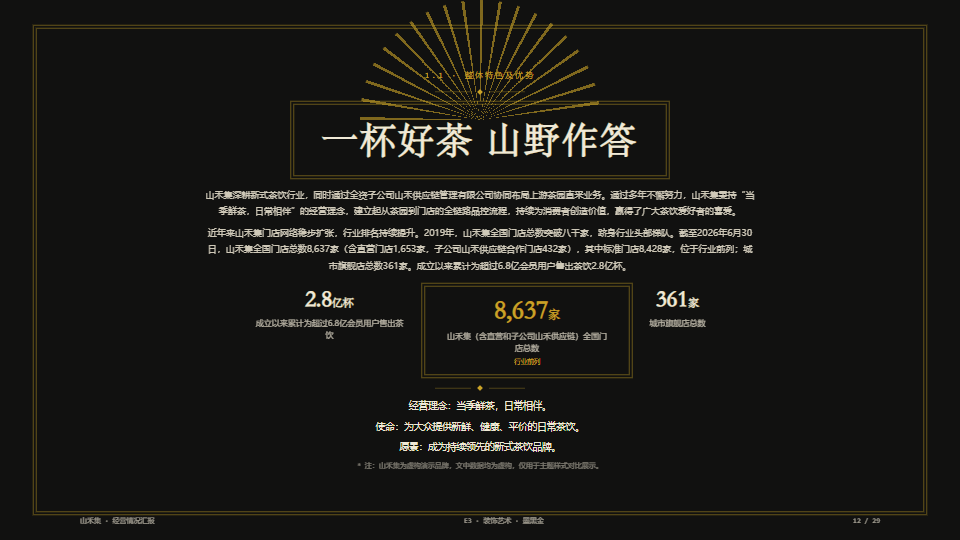
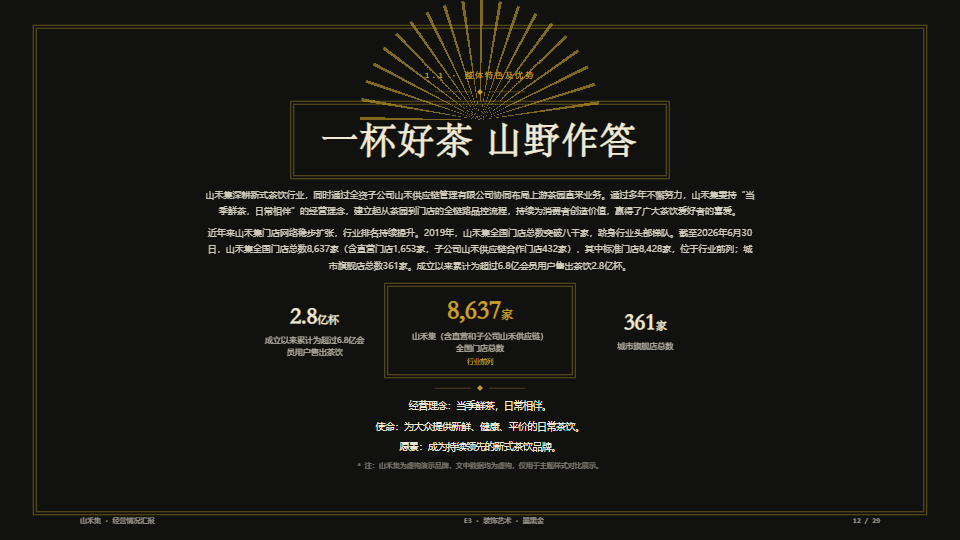
feat(batch-3): E3 invariant 补强 + README 更新 + handover v3
- E3 invariant 补入 flex:1 等宽约束（修复中轴金框未严格居中）
- README（中英）追加 batch-3 G10 契约验收样张（G4/G5/E2/E3）
- 新增 assets/theme-sampler/content.md 内容规范
- 新增 assets/theme-sampler/v3-{e2,e3,g4,g5}.png 验收截图
- 新增 docs/progress/HANDOVER-v3.md（下一批入口文档）
  - 17 条 100% 防范清单（v2 的 12 + batch-3 的 5）
  - theme-sampler 制作 SOP（第一步就含完整 PPTX 页面）
  - 批次 4 预览：C2/C4/D1/D3

diff --git a/docs/progress/phase6-batch3/theme-sampler-4.html b/docs/progress/phase6-batch3/theme-sampler-4.html
@@ -598,20 +598,20 @@ html,body{background:#222;height:auto}
           <p data-editable style="margin-top:10px;font-size:18px;line-height:1.85;opacity:.85">近年来山禾集门店网络稳步扩张，行业排名持续提升。2019年，山禾集全国门店总数突破八千家，跻身行业头部梯队。截至2026年6月30日，山禾集全国门店总数8,637家（含直营门店1,653家，子公司山禾供应链合作门店432家），其中标准门店8,428家，位于行业前列；城市旗舰店总数361家。成立以来累计为超过6.8亿会员用户售出茶饮2.8亿杯。</p>
         </div>
 
-        <!-- G10 data: 对称双栏镜像模块，主数字在中轴金框内 -->
-        <div class="reveal" style="--d:.28s;margin-top:24px;display:flex;justify-content:center;align-items:stretch">
-          <div style="padding:0 40px;text-align:center">
+        <!-- G10 data: 对称双栏镜像模块，主数字在中轴金框内；左右栏 flex:1 等宽确保中轴严格居中 -->
+        <div class="reveal" style="--d:.28s;margin-top:24px;display:flex;justify-content:center;align-items:stretch;max-width:1200px">
+          <div style="flex:1;display:flex;flex-direction:column;justify-content:center;padding:0 40px;text-align:center">
             <p data-editable style="font-family:var(--font-display);font-size:46px;font-weight:600;line-height:1.15">2.8<span style="font-size:22px">亿杯</span></p>
-            <p data-editable style="margin-top:8px;font-size:16px;line-height:1.55;opacity:.75;max-width:300px">成立以来累计为超过6.8亿会员用户售出茶饮</p>
+            <p data-editable style="margin-top:8px;font-size:16px;line-height:1.55;opacity:.75">成立以来累计为超过6.8亿会员用户售出茶饮</p>
           </div>
-          <div class="mt-deco-frame" style="padding:18px 44px;text-align:center">
+          <div class="mt-deco-frame" style="flex:0 0 auto;padding:18px 44px;text-align:center">
             <p data-editable style="font-family:var(--font-display);font-size:52px;font-weight:600;line-height:1.15;color:var(--accent)">8,637<span style="font-size:24px">家</span></p>
-            <p data-editable style="margin-top:8px;font-size:16px;line-height:1.55;opacity:.75;max-width:320px">山禾集（含直营和子公司山禾供应链）全国门店总数</p>
+            <p data-editable style="margin-top:8px;font-size:16px;line-height:1.55;opacity:.75;max-width:280px">山禾集（含直营和子公司山禾供应链）全国门店总数</p>
             <p data-editable style="margin-top:6px;font-family:var(--font-mono);font-size:13px;color:var(--accent)">行业前列</p>
           </div>
-          <div style="padding:0 40px;text-align:center">
+          <div style="flex:1;display:flex;flex-direction:column;justify-content:center;padding:0 40px;text-align:center">
             <p data-editable style="font-family:var(--font-display);font-size:46px;font-weight:600;line-height:1.15">361<span style="font-size:22px">家</span></p>
-            <p data-editable style="margin-top:8px;font-size:16px;line-height:1.55;opacity:.75;max-width:300px">城市旗舰店总数</p>
+            <p data-editable style="margin-top:8px;font-size:16px;line-height:1.55;opacity:.75">城市旗舰店总数</p>
           </div>
         </div>
 

diff --git a/docs/progress/phase6-batch3/build-sampler-v5.js b/docs/progress/phase6-batch3/build-sampler-v5.js
@@ -266,20 +266,20 @@ const slideE3 = `  <div class="slide-slot">
           <p data-editable style="margin-top:10px;font-size:18px;line-height:1.85;opacity:.85">${C.body2}</p>
         </div>
 
-        <!-- G10 data: 对称双栏镜像模块，主数字在中轴金框内 -->
-        <div class="reveal" style="--d:.28s;margin-top:24px;display:flex;justify-content:center;align-items:stretch">
-          <div style="padding:0 40px;text-align:center">
+        <!-- G10 data: 对称双栏镜像模块，主数字在中轴金框内；左右栏 flex:1 等宽确保中轴严格居中 -->
+        <div class="reveal" style="--d:.28s;margin-top:24px;display:flex;justify-content:center;align-items:stretch;max-width:1200px">
+          <div style="flex:1;display:flex;flex-direction:column;justify-content:center;padding:0 40px;text-align:center">
             <p data-editable style="font-family:var(--font-display);font-size:46px;font-weight:600;line-height:1.15">${C.kpi2Num}<span style="font-size:22px">${C.kpi2Unit}</span></p>
-            <p data-editable style="margin-top:8px;font-size:16px;line-height:1.55;opacity:.75;max-width:300px">${C.kpi2Label}</p>
+            <p data-editable style="margin-top:8px;font-size:16px;line-height:1.55;opacity:.75">${C.kpi2Label}</p>
           </div>
-          <div class="mt-deco-frame" style="padding:18px 44px;text-align:center">
+          <div class="mt-deco-frame" style="flex:0 0 auto;padding:18px 44px;text-align:center">
             <p data-editable style="font-family:var(--font-display);font-size:52px;font-weight:600;line-height:1.15;color:var(--accent)">${C.kpi1Num}<span style="font-size:24px">${C.kpi1Unit}</span></p>
-            <p data-editable style="margin-top:8px;font-size:16px;line-height:1.55;opacity:.75;max-width:320px">${C.kpi1Label}</p>
+            <p data-editable style="margin-top:8px;font-size:16px;line-height:1.55;opacity:.75;max-width:280px">${C.kpi1Label}</p>
             <p data-editable style="margin-top:6px;font-family:var(--font-mono);font-size:13px;color:var(--accent)">${C.kpi1Tag}</p>
           </div>
-          <div style="padding:0 40px;text-align:center">
+          <div style="flex:1;display:flex;flex-direction:column;justify-content:center;padding:0 40px;text-align:center">
             <p data-editable style="font-family:var(--font-display);font-size:46px;font-weight:600;line-height:1.15">${C.kpi3Num}<span style="font-size:22px">${C.kpi3Unit}</span></p>
-            <p data-editable style="margin-top:8px;font-size:16px;line-height:1.55;opacity:.75;max-width:300px">${C.kpi3Label}</p>
+            <p data-editable style="margin-top:8px;font-size:16px;line-height:1.55;opacity:.75">${C.kpi3Label}</p>
           </div>
         </div>
 

diff --git a/docs/progress/HANDOVER-v3.md b/docs/progress/HANDOVER-v3.md
@@ -1,0 +1,252 @@
+# SlideForge 主题「审美巅峰」优化 · Handover v3
+
+> 建立日期：2026-11-17（batch-3 验收后）
+> 用途：**新 session 的唯一入口文档**。读完本文即可继续优化剩余主题，无需重放历史对话。
+> 前版：`docs/progress/HANDOVER-v2.md`（v2，2026-11-17）—— 仍保留作参考，但本文件取代其作为入口。
+> 基线：本地 `main` 已包含 Phase 1–6 + 批次 1 v2 + 批次 3 的全部提交（未 push）。
+
+---
+
+## 0. 新 session 快速启动
+
+| 项 | 值 |
+|---|---|
+| 主题库总数 | **30 套**（六类设计轴：色法 7 / 线法 4 / 空间 5 / 质感 8 / 光线 4 / 字法 2） |
+| 已升级到「审美巅峰」+ G10 | **13 套**：B1 / C3 / E5 / H1 / E6 / G2 / E7 / F1 / C1 / **G4 / G5 / E2 / E3**（batch-3 新增） |
+| 待优化 | **17 套**，分 **5 批**（4 批 × 4 + 尾批 1） |
+| 下一批应做 | **批次 4：C2 暗夜植物园 / C4 纸与墨 / D1 奶油物语 / D3 手绘油彩** |
+| 铁律 | **每批只做 4 套 → 多类数据实测 → 出 A/B 与验收包 → 停下来等用户验收 → 通过后才进下一批** |
+| 不允许 | 未经用户验收就批量铺量；把「更新 README 示例」做成新增章节；为字号加后拦截门禁 |
+
+**开工前必读（按顺序）**
+1. 本文 §5（分批 SOP 与验收门槛）——决定怎么做。
+2. 本文 §4（batch-3 经验教训 + 100% 防范清单）——避免重蹈覆辙。
+3. `analysis/G10-主题DNA规范草案.md` —— G10 字段组的原始规范与「审美巅峰」验收口径。
+4. `skills/SlideForge/references/themes/<分类>/<id>/theme.md` —— 每套主题的 G0–G9/G10。
+5. `assets/theme-sampler/content.md` —— theme-sampler 的内容规范（山禾集业务汇报）。
+
+---
+
+## 1. 任务关键描述
+
+### 1.1 优化目标
+
+30 套主题从「可替换参数集」升级为「决定信息如何进入空间的程序」——每套主题获得构图主权，使同一段内容在不同主题下呈现结构级差异（非换配色），灰度去色后仍可辨识。
+
+### 1.2 G10 composition_program 管线
+
+G10 是让主题获得构图主权的字段组，含 9 个子字段：
+- `doctrine`（世界观一句话）
+- `page_composition`（骨架 skeleton + 网格 grid + 平衡 balance + 留白 whitespace_ratio + 信息流 flow）
+- `signature_operator`（信息编译规则——每条信息如何变成视觉元素）
+- `silhouette`（剪影特征）
+- `info_grammar`（每页类型构图契约：cover/toc/claim/analysis/data/closing 各一条）
+- `type_scale`（`--t-*` 令牌源，px@1920 画布基准）
+- `invariants`（每页硬约束列表）
+- `forbidden_defaults`（禁止的默认模板列表）
+- `dna_events`（每页型 DNA 强度）
+
+**管线接入**（batch-3 修复）：
+- `SKILL.md` Step 1 页计划表：标注 G10 `info_grammar` 页型（硬规则）
+- `SKILL.md` Step 2 冻结主题：逐字段读取 G10 作为构图契约（硬规则）
+- `SKILL.md` Step 4 逐页生成：重读 `signature_operator`/`info_grammar`/`invariants`/`forbidden_defaults`/`dna_events`（硬规则）
+- `index.md` Schema 表：L8 构图程序行（G10 composition_program）
+
+### 1.3 文档引用
+
+| 文档 | 用途 |
+|------|------|
+| `analysis/G10-主题DNA规范草案.md` | G10 字段组原始规范 + 「审美巅峰」验收口径 |
+| `skills/SlideForge/SKILL.md` | 生成管线（Step 1/2/4 含 G10 硬规则） |
+| `skills/SlideForge/references/themes/index.md` | 主题 Schema 表（L1–L8） |
+| `skills/SlideForge/references/themes/<分类>/<id>/theme.md` | 各主题 G0–G9 + G10 |
+| `skills/SlideForge/assets/skeleton.html` | 骨架 v7.6（1920×1080 px 基准） |
+| `skills/SlideForge/gallery/index.html` | README 画廊（29 主题 cover 样张） |
+| `assets/theme-sampler/content.md` | theme-sampler 内容规范（山禾集） |
+| `docs/progress/G10-pipeline-audit.md` | G10 管线缺口审计报告（batch-3） |
+| `docs/progress/HANDOVER-v2.md` | v2 handover（批次 1 经验教训） |
+| `docs/progress/HANDOVER-v3.md` | ← 本文件 |
+
+---
+
+## 2. 已完成 13 套主题明细
+
+### 2.1 批次 1 v2（9 套）
+
+| 主题 | `--t-display` | signature_operator 一句话 |
+|------|--------------|------------------------|
+| B1 瑞士国际主义 | 176 | 12 栏网格 + 标题跨栏语义断行 + KPI 重排为右侧纵向数据脊 |
+| C3 终端绿 | 104 | 内容编译成命令行 stdout + 描边终端窗口 + key:value 输出行 |
+| E5 构成主义 | 128 | −12° 力带劈开版面 + 标题反白装进带内 + 正文沿力线阶梯错排 |
+| H1 氤氲手卷 | 92 | 自右向左手卷展开 + 标题竖排居右 + 汉数题跋 + 朱印句读 |
+| E6 孟菲斯 | 112 | 几何色面碰撞拼贴 + palette 轮转 + 3px 墨粗描边 + 不对称平衡 |
+| G2 腮红荧光笔 | 128 | 单栏流式正文 + 荧光高亮带 + 便签浮在右侧标注 |
+| E7 浮世绘 | — | 浮世绘前景深墨块 + 天空留白 + 印章句读（需复核） |
+| F1 浮光玻璃 | 108 | 居中悬浮主玻璃 + 四角柔光斑 + 深底亮玻璃明度签名 |
+| C1 信号黑 | 120 | 黑场单焦点 + 信号橙色块（唯一焦点）+ 巨号页码背景层 + 明度档分区 |
+
+### 2.2 批次 3（4 套，本次新增）
+
+| 主题 | `--t-display` | signature_operator 一句话 | G10 claim 契约 |
+|------|--------------|------------------------|---------------|
+| G4 靛墨黄页 | 128 | 出血色面 + 靛蓝线框分区 + 太阳黄焦点面 + 余烬橙单点 | 裂屏对开（黄/靛对撞），主张句在黄面上反白，说明在靛面上 |
+| G5 三色旬刊 | 112 | 三色反转色面 + 明度阶梯 + 暗夜蓝底苔绿字焦点面 + 刊号签/三色带 | 裂屏对开（暗夜蓝/苔绿对撞），主张句在暗夜蓝底苔绿字上 |
+| E2 蓝图 | 104 | 双线图框 + 标注线 + 图框标题栏 + 制图网格全页铺 + mono key:value | 主张句在主图框内，标注线指向关键数据点，标题栏钉右下 |
+| E3 装饰艺术 | 120 | 中轴对称金线框阵列 + 双线金框 + 扇形放射 + 菱形分隔 + 金线翼卫 | 中轴金框装主张句 + 两侧金线翼卫 + 底部菱形引出说明 |
+
+### 2.3 G10 管线接入状态
+
+| 组件 | 状态 | 验证方法 |
+|------|------|---------|
+| SKILL.md Step 1（页计划标注 info_grammar） | ✅ 已接入 | `grep -c "info_grammar" SKILL.md` = 8 |
+| SKILL.md Step 2（读取 G10 作构图契约） | ✅ 已接入 | `grep -c "composition_program" SKILL.md` = 4 |
+| SKILL.md Step 4（逐页遵守 5 字段） | ✅ 已接入 | `grep -c "signature_operator\|invariants\|forbidden_defaults" SKILL.md` = 4+2+2 |
+| index.md L8 Schema 行 | ✅ 已接入 | `grep "L8" index.md` 有结果 |
+| 4 主题 G10 完整性 | ✅ 全有 | 4 主题各 `grep -c "composition_program" theme.md` = 1 |
+
+---
+
+## 3. batch-3 关键修复
+
+### 3.1 G5 色值修正
+
+| Token | 旧色值（错误） | 正确色值 | 色名 |
+|-------|--------------|---------|------|
+| --paper | #F2B6C6 | #E4C9A8 | 赭石 |
+| --paper-tint | #F2D86A | #8BAE6F | 苔绿 |
+| --ink | #7A1F35 | #1A2B3D | 暗夜蓝 |
+| --ink-tint | #5E1828 | #121E2D | 深暗夜蓝 |
+| --accent | #F2D86A | #8BAE6F | 苔绿 |
+| --accent-on | #7A1F35 | #1A2B3D | 暗夜蓝 |
+
+修复范围：theme.md 9 处旧色名 + gallery/index.html inline style + sampler HTML。
+
+### 3.2 G10 管线缺口修复
+
+**问题**：G10 写进 13 套 theme.md 但 SKILL.md 0 引用——agent 生成 PPT 时不读 G10，所有 `info_grammar`/`signature_operator`/`invariants`/`forbidden_defaults` 不生效。
+
+**修复**：SKILL.md Step 1/2/4 补入 G10 硬规则 + index.md Schema 补 L8 行。详见 `docs/progress/G10-pipeline-audit.md`。
+
+### 3.3 E3 中轴对称 invariant 补强
+
+**问题**：E3 invariant 说"中轴对称"但未明确"对称双栏左右两栏必须 flex:1 等宽"，导致 sampler 中 KPI 区左右栏用 padding-only 定位、中轴金框视觉偏移。
+
+**修复**：invariant 第一条补入"对称双栏的左右两栏必须 flex:1 等宽，确保中轴元素严格居中（禁用 padding-only 定位替代 flex 等分）"。
+
+---
+
+## 4. batch-3 经验教训 + 100% 防范清单
+
+### 4.1 batch-3 踩过的 5 个坑
+
+| # | 坑 | 根因 | 修复 | 代价 |
+|---|---|---|---|---|
+| 1 | **G10 成了死文档** | G10 写进 theme.md 但 SKILL.md 0 引用——agent 不读 G10 | SKILL.md Step 1/2/4 补入硬规则 + index.md L8 行 | 5 轮迭代才发现 |
+| 2 | **从零重写布局丢掉骨架框架层** | 构建 sampler 时用 `padding:0` + 绝对定位面板，丢了 `--slide-pad`/`.mastfoot`/`.reveal` | 保留 gallery 骨架框架 CSS，只追加截图修复 CSS | 3 轮迭代 |
+| 3 | **用错内容源** | 用了 gallery 的 cover 内容（"想象的形状"）而非 sampler 的 claim 内容（"山禾集"） | 确认内容源：`assets/theme-sampler/` 截图 = 原版 sampler = 山禾集业务汇报 | 2 轮迭代 |
+| 4 | **保留老布局丢掉 G10 优化** | 从原版 sampler 原样提取 HTML，但原版是 G10 之前的布局（横排等权三格 KPI） | 布局必须按 G10 `info_grammar.claim` 契约重构，只保留骨架框架层 + 内容 | 1 轮迭代 |
+| 5 | **E3 中轴金框未严格居中** | invariant 说"中轴对称"但未明确 flex:1 等宽约束，左右栏用 padding-only | invariant 补入 flex:1 等宽约束 + sampler 修复 | 用户目视发现 |
+
+### 4.2 100% 防范清单（v2 的 12 条 + batch-3 的 5 条 = 17 条）
+
+| # | 坑 | 正确做法 | 来源 |
+|---|---|---|---|
+| 1 | 并行 dispatch 子 agent 超过 2 个 | 最多并行 2 个，或串行 | v2 |
+| 2 | 标题让换行 | 调 `--t-display` 而非折行 | v2 |
+| 3 | 只查画布越界不查容器内溢出 | 补最近显式 `top`+`height` 绝对定位祖先检测 | v2 |
+| 4 | 重叠检测不排除旋转元素 | 排除带 `transform` 的元素 | v2 |
+| 5 | 同组 KPI 用等宽检测 | 改检测 x 间距规则性 | v2 |
+| 6 | titleFlush 用 bounding box 宽度 | 用 Range API 测实际文本渲染宽度 | v2 |
+| 7 | 留白只查下限不查上限 | 低密度 ≥40% ≤65%；高密度 ≥20% ≤50% | v2 |
+| 8 | 只查留白率不查 9 宫格 | 3×3 网格无空格 | v2 |
+| 9 | 布局改动不回写 theme.md | G10 invariants 必须与实际产物一致 | v2 |
+| 10 | 审计把 `var(--t-*)` 计作裸写字号 | 只查裸写 inline px | v2 |
+| 11 | `git add -A` | 用 `git add -u` + 显式路径 | v2 |
+| 12 | 提交默认 push | 只到本地，不 push（除非用户显式要求） | v2 |
+| **13** | **G10 写了不接入管线** | **SKILL.md Step 1/2/4 必须引用 G10；新主题写 G10 后验证 SKILL.md grep > 0** | **batch-3** |
+| **14** | **从零重写丢掉骨架框架层** | **构建 sampler 时保留 gallery 骨架 CSS（padding/mastfoot/reveal/G9母题），只追加截图修复 CSS** | **batch-3** |
+| **15** | **用错内容源** | **sampler 内容 = `assets/theme-sampler/` 截图 = 原版 sampler = 山禾集业务汇报；gallery cover 内容 = "想象的形状"——两者不同** | **batch-3** |
+| **16** | **保留老布局丢掉 G10 优化** | **原版 sampler 是 G10 之前的布局（横排等权三格 KPI 违规）；必须按 G10 `info_grammar.claim` 契约重构布局，只保留骨架框架层 + 内容** | **batch-3** |
+| **17** | **对称主题中轴元素未严格居中** | **invariant 必须写明"对称双栏 flex:1 等宽"；sampler 中左右栏用 flex:1 而非 padding-only** | **batch-3** |
+
+### 4.3 theme-sampler 制作 SOP（batch-3 确立）
+
+**第一步就包含最终交付的 theme-sampler 完整 PPTX 页面**：
+
+1. **内容源**：`assets/theme-sampler/content.md`（山禾集业务汇报）
+2. **页型**：claim（主张页）——最能集中展示主题 DNA
+3. **骨架框架 CSS**：从 `gallery/index.html` 提取完整 `<style>` 块（含 padding/mastfoot/reveal/G9 母题）
+4. **布局**：按各主题 `theme.md` 的 G10 `info_grammar.claim` 契约手写 slide HTML
+5. **色值**：从 `theme.md` G1 color 逐字复制，不猜测
+6. **KPI**：按 G10 `info_grammar.data` 契约排列（禁止横排等权三格——`forbidden_defaults`）
+7. **G9 母题**：从 `theme.md` G9 逐字复制 CSS + 原版 sampler 中的位置/尺寸
+8. **截图修复 CSS**：追加 `--slide-scale:1` + `content-visibility:visible` + `transform:none` + 动效终态
+9. **Playwright 截图**：逐 slide 元素截图，1920×1080 PNG
+10. **验收**：4 张截图展示给用户，通过后才进下一批
+11. **PPTX 导出**：sampler HTML 通过骨架导出管线生成完整 PPTX 文件（含全部页面），作为最终交付物
+
+**关键**：theme-sampler 不是临时验收物——它是最终交付的 PPTX 页面，在第一步制作时就要包含完整的导出就绪结构。
+
+---
+
+## 5. 分批 SOP 与验收门槛
+
+### 5.1 分批表
+
+| 批次 | 主题 | 状态 | 备注 |
+|------|------|------|------|
+| 批次 1 v2 | E6 / G2 / E7 / F1 | ✅ 已验收 | v2 重启后通过 |
+| 批次 2 | C1 / B1 / C3 / E5 / H1 | ✅ 已验收 | 含 v2 验收 + C1 G10 补全 |
+| **批次 3** | **G4 / G5 / E2 / E3** | **✅ 已验收** | **G10 管线接入 + 色值修正 + 布局重构** |
+| **批次 4** | **C2 暗夜植物园 / C4 纸与墨 / D1 奶油物语 / D3 手绘油彩** | **⬜ 待做** | **下一批** |
+| 批次 5 | E1 孔版印刷 / E8 号外报纸 / E9 地质地层 / E10 星图 | ⬜ 待做 | |
+| 批次 6 | E11 票据 / E12 商务粗野 / F2 霓虹夜行 / F3 暮色长镜 | ⬜ 待做 | |
+| 批次 7 | A1 电子杂志 / D2 柔光暗房 / D4 (待定) / G1 翡翠年鉴 | ⬜ 待做 | |
+| 批次 8 | E7 复核 / 17 套无 G10 主题补写 G10 | ⬜ 待做 | 尾批：补全 + 复核 |
+
+### 5.2 每批 SOP
+
+```
+1. 读 theme.md G0–G9 + G10（4 套）
+2. 确认 G10 info_grammar.claim 契约
+3. 构建 theme-sampler HTML（保留骨架框架层 + 山禾集内容 + G10 契约布局）
+4. Playwright 截图 4 张 1920×1080 PNG
+5. 导出完整 PPTX（含全部页面）
+6. 展示给用户验收
+7. 通过后：
+   a. 更新 README（中英）追加 batch-N 样张
+   b. 提交（只到本地，不 push）
+   c. 更新 handover 文档
+8. 进入下一批
+```
+
+### 5.3 验收门槛
+
+- **G10 契约一致性**：sampler 布局必须与 theme.md 的 G10 `info_grammar.claim` 契约一致
+- **forbidden_defaults 零违反**：`横向等权三格 KPI` 等禁止项全部为零
+- **骨架框架层保留**：padding/mastfoot/reveal/G9 母题原样保留
+- **色值正确**：从 theme.md G1 color 逐字复制
+- **内容一致**：与 `assets/theme-sampler/content.md` 一致
+- **PPTX 可导出**：sampler HTML 通过骨架导出管线生成完整 PPTX
+
+---
+
+## 6. 下一批（批次 4）主题预览
+
+| 主题 | 分类 | 气质 | 预期 G10 方向 |
+|------|------|------|-------------|
+| C2 暗夜植物园 | texture | 暗底 + 暖金 + 植物图鉴 | 图鉴卡阵 + 编号签 + 标本引线脚注 + 叶脉侧缘 |
+| C4 纸与墨 | texture | 居中书籍版式 + 首字下沉 + 引文拉页 | 题花 + 首字下沉首段 + 引文拉页理念行 |
+| D1 奶油物语 | texture | 圆角弥散 + 贴纸徽章 + 扇贝花边 | 圆角弥散卡片阵 + 贴纸徽章 + 奶油圆点 |
+| D3 手绘油彩 | texture | 楷体 + 纸面晕染 + 笔触块 + 不规则圆角切片 | 笔触块标题 + 虚线圈注 + 不规则圆角切片右栏 |
+
+> 4 套均为 texture 分类——需要在质感（grain/paper/glow）维度上与已有 13 套同时分化。
+
+---
+
+## 7. 本机环境备忘
+
+- shell shim 缺 `dirname/head/tail/ls/mkdir/cat/sed`，命令不接管道；用托管 Node `fs` / `child_process.execFileSync` 代替
+- Playwright：托管 Node + `playwright-core@1.65.0`（装在 `~/.workbuddy/binaries/node/workspace/node_modules`）+ 系统 Chrome `C:/Program Files/Google/Chrome/Application/chrome.exe`
+- `.gitignore` 用 `/docs/*` + `!/docs/progress/` 白名单；**绝不用 `git add -A`**
+- 提交默认**只到本地、不 push**

diff --git a/README.md b/README.md
@@ -100,6 +100,16 @@ The same business page (demo content for "Shanhe Ji", a fictional tea brand; all
 
 > The earlier token-swap samples (the older `p01`–`p29` set) still live in `assets/theme-sampler/`; the eight above are the recompiled versions. Source deck: `tests/decks/theme-sampler/`. The E6/G2/F1 high-density samplers are from the batch-1 v2 acceptance (rev6, 12-item audit all green); C1 uses the original token-swap sample.
 
+### Batch-3 · G10 Contract Acceptance Samples (E2 / E3 / G4 / G5)
+
+Acceptance samples for four themes after the batch-3 G10 `composition_program` pipeline integration and layout rebuild. The same Shanhe Ji business content, recompiled per each theme's G10 `info_grammar.claim` contract: G4 split-screen (yellow/indigo clash); G5 split-screen (midnight blue/moss green clash); E2 title inside a double-line drawing frame, KPI as in-frame mono key:value annotation rows; E3 central gold frame with flanking gold-line wings and symmetric mirrored KPI columns.
+
+| <img src="assets/theme-sampler/v3-g4.png" width="416"> | <img src="assets/theme-sampler/v3-g5.png" width="416"> |
+|---|---|
+| G4 · Indigo & Sun-Yellow · split-screen (yellow/indigo clash) | G5 · Tri-Color Journal · split-screen (midnight blue/moss green clash) |
+| <img src="assets/theme-sampler/v3-e2.png" width="416"> | <img src="assets/theme-sampler/v3-e3.png" width="416"> |
+| E2 · Blueprint · double-line frame array + annotation lines | E3 · Art Deco · central gold frame + symmetric mirrored columns |
+
 ## Page Types in Action
 
 Different page forms from the same generation pipeline: cover doubles as clickable TOC, high-density data pages, chart pages, infographic pages.

diff --git a/skills/SlideForge/references/themes/space/e3/theme.md b/skills/SlideForge/references/themes/space/e3/theme.md
@@ -171,7 +171,7 @@ type_scale:            # px@1920×1080 画布基准；下限由骨架 .t-* 的 m
   rule: 标题:正文 ≥1.8:1；正文层 opacity = 1，禁灰化弱读；金线 accent 面积 ≤8%（金是线不是面）
   floor_note: body/heading/subhead/caption/meta 不覆盖，继承骨架 28/64/40/18/15；地板由 max() 保证，无需后拦截门禁
 invariants:
-  - 中轴对称：所有主要元素沿中轴左右镜像（analysis 用对称双栏，claim 用中轴金框）
+  - 中轴对称：所有主要元素沿中轴左右镜像（analysis 用对称双栏，claim 用中轴金框）；对称双栏的左右两栏必须 flex:1 等宽，确保中轴元素严格居中（禁用 padding-only 定位替代 flex 等分）
   - 双线金框 ≥1 个/页（border + outline 双 1px 金线，间距 5px，直角中空无填充）
   - 扇形放射 sunburst 每页至多一个、只许页顶/标题区/仪式页背景层
   - 菱形分隔符只许中轴对称位（标题上下居中）
